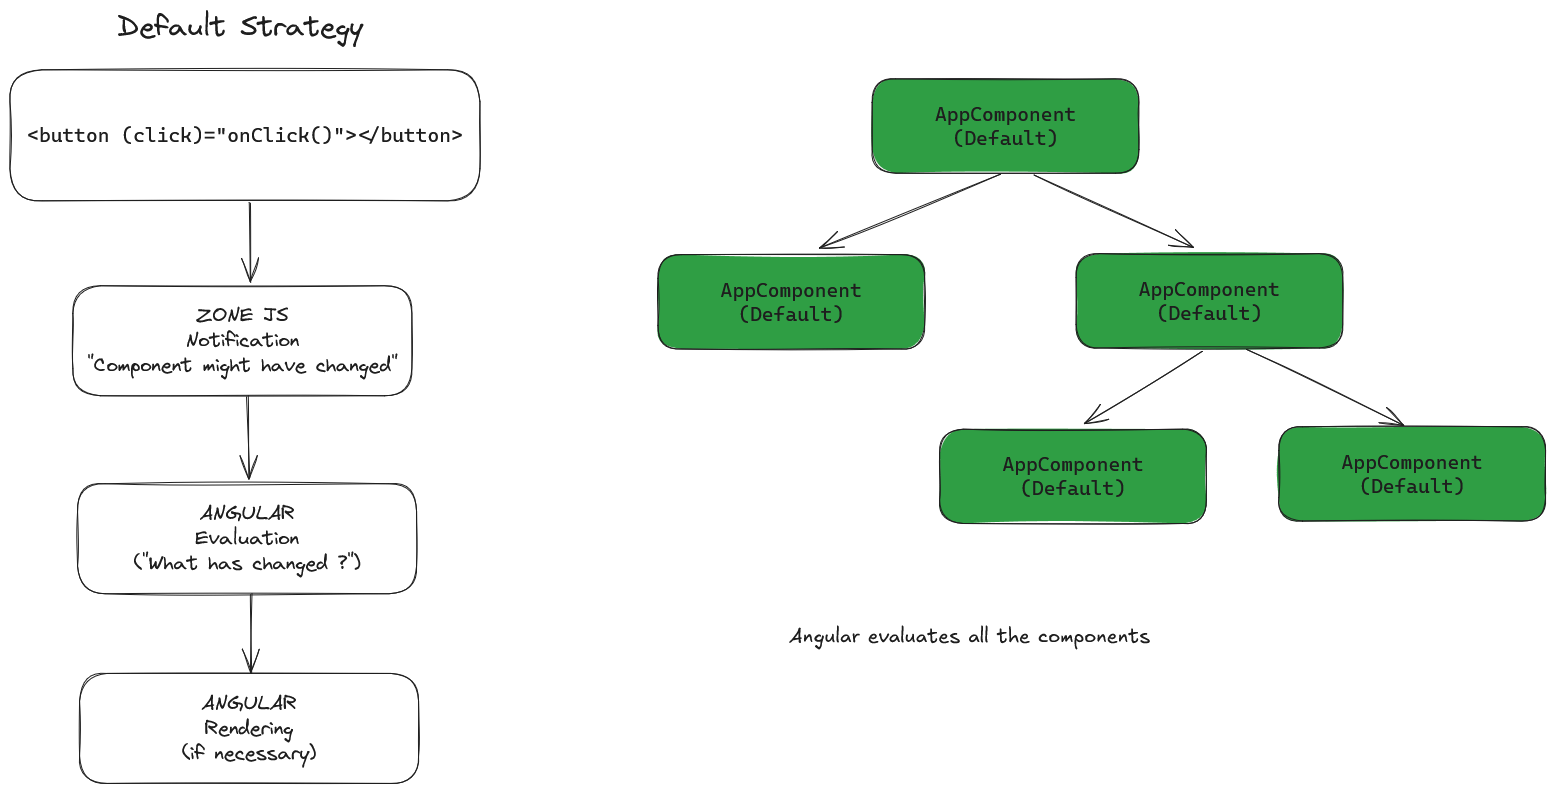
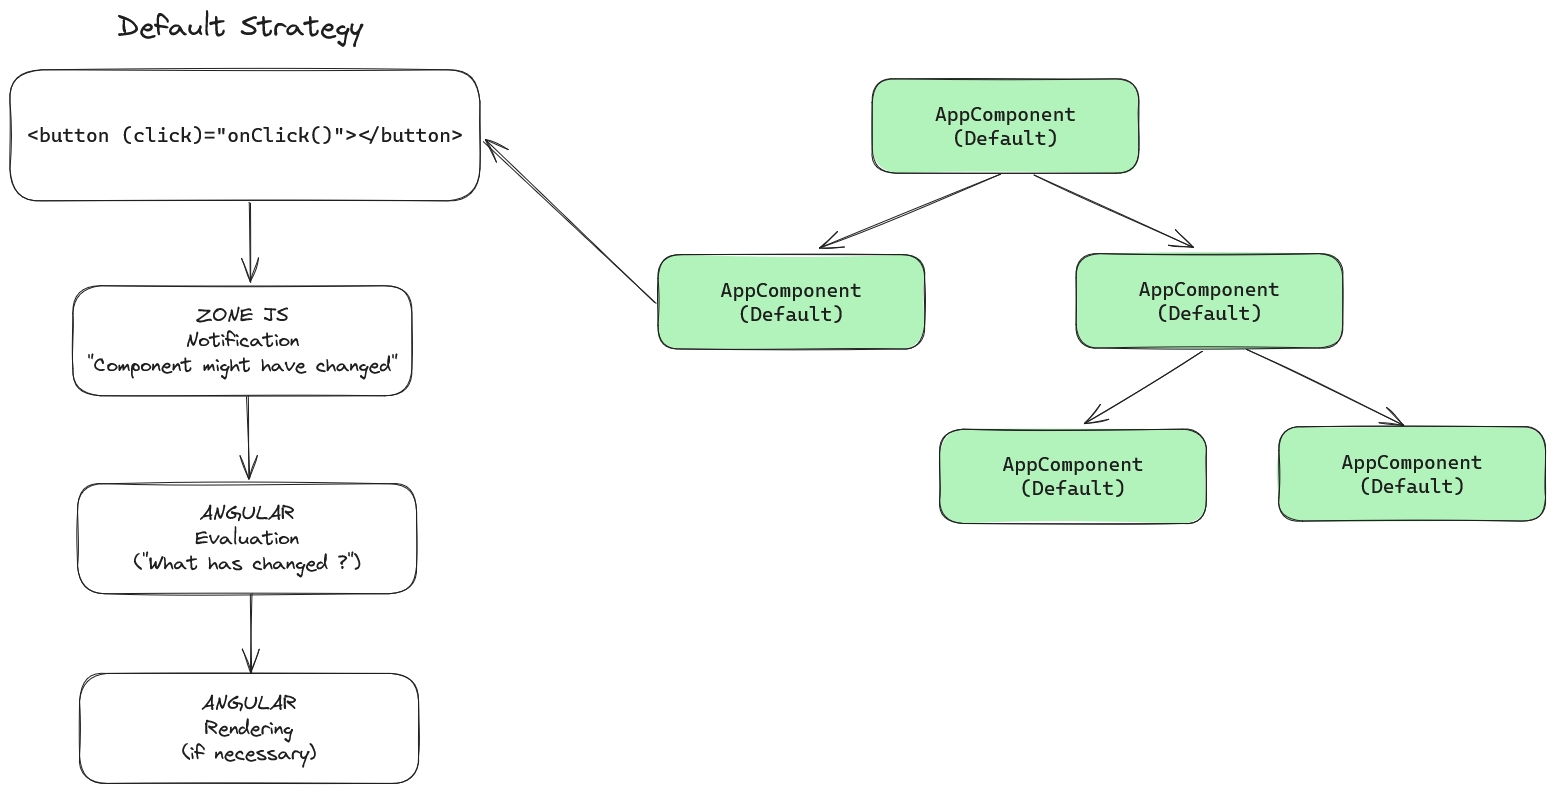
Correction: Schéma et texte pour Strategy Default & Signals (Signals)

diff --git a/Slides/07_signals.md b/Slides/07_signals.md
@@ -152,7 +152,9 @@ Notes :
 
 ## Signals - Synchronization process 2/4
 
-<img src="./resources/07-detection-default-img.png" width="80%" style="display: block; margin: 4rem auto 0 auto" />
+  - Default : Because Angular has no information about which parts have actually changed, it must check every component
+
+<img src="./resources/07-detection-default-img.png" width="70%" style="display: block; margin: 4rem auto 0 auto" />
 
 Notes :
 
@@ -160,7 +162,9 @@ Notes :
 
 ## Signals - Synchronization process 3/4
 
-<img src="./resources/07-detection-signals-img.png" width="80%" style="display: block; margin: 4rem auto 0 auto" />
+  - Zoneless : With Signals, Angular could target only omponents that have changed. Moreover, ZoneJS is no longer needed
+
+<img src="./resources/07-detection-signals-img.png" width="70%" style="display: block; margin: 4rem auto 0 auto" />
 
 Notes :
 